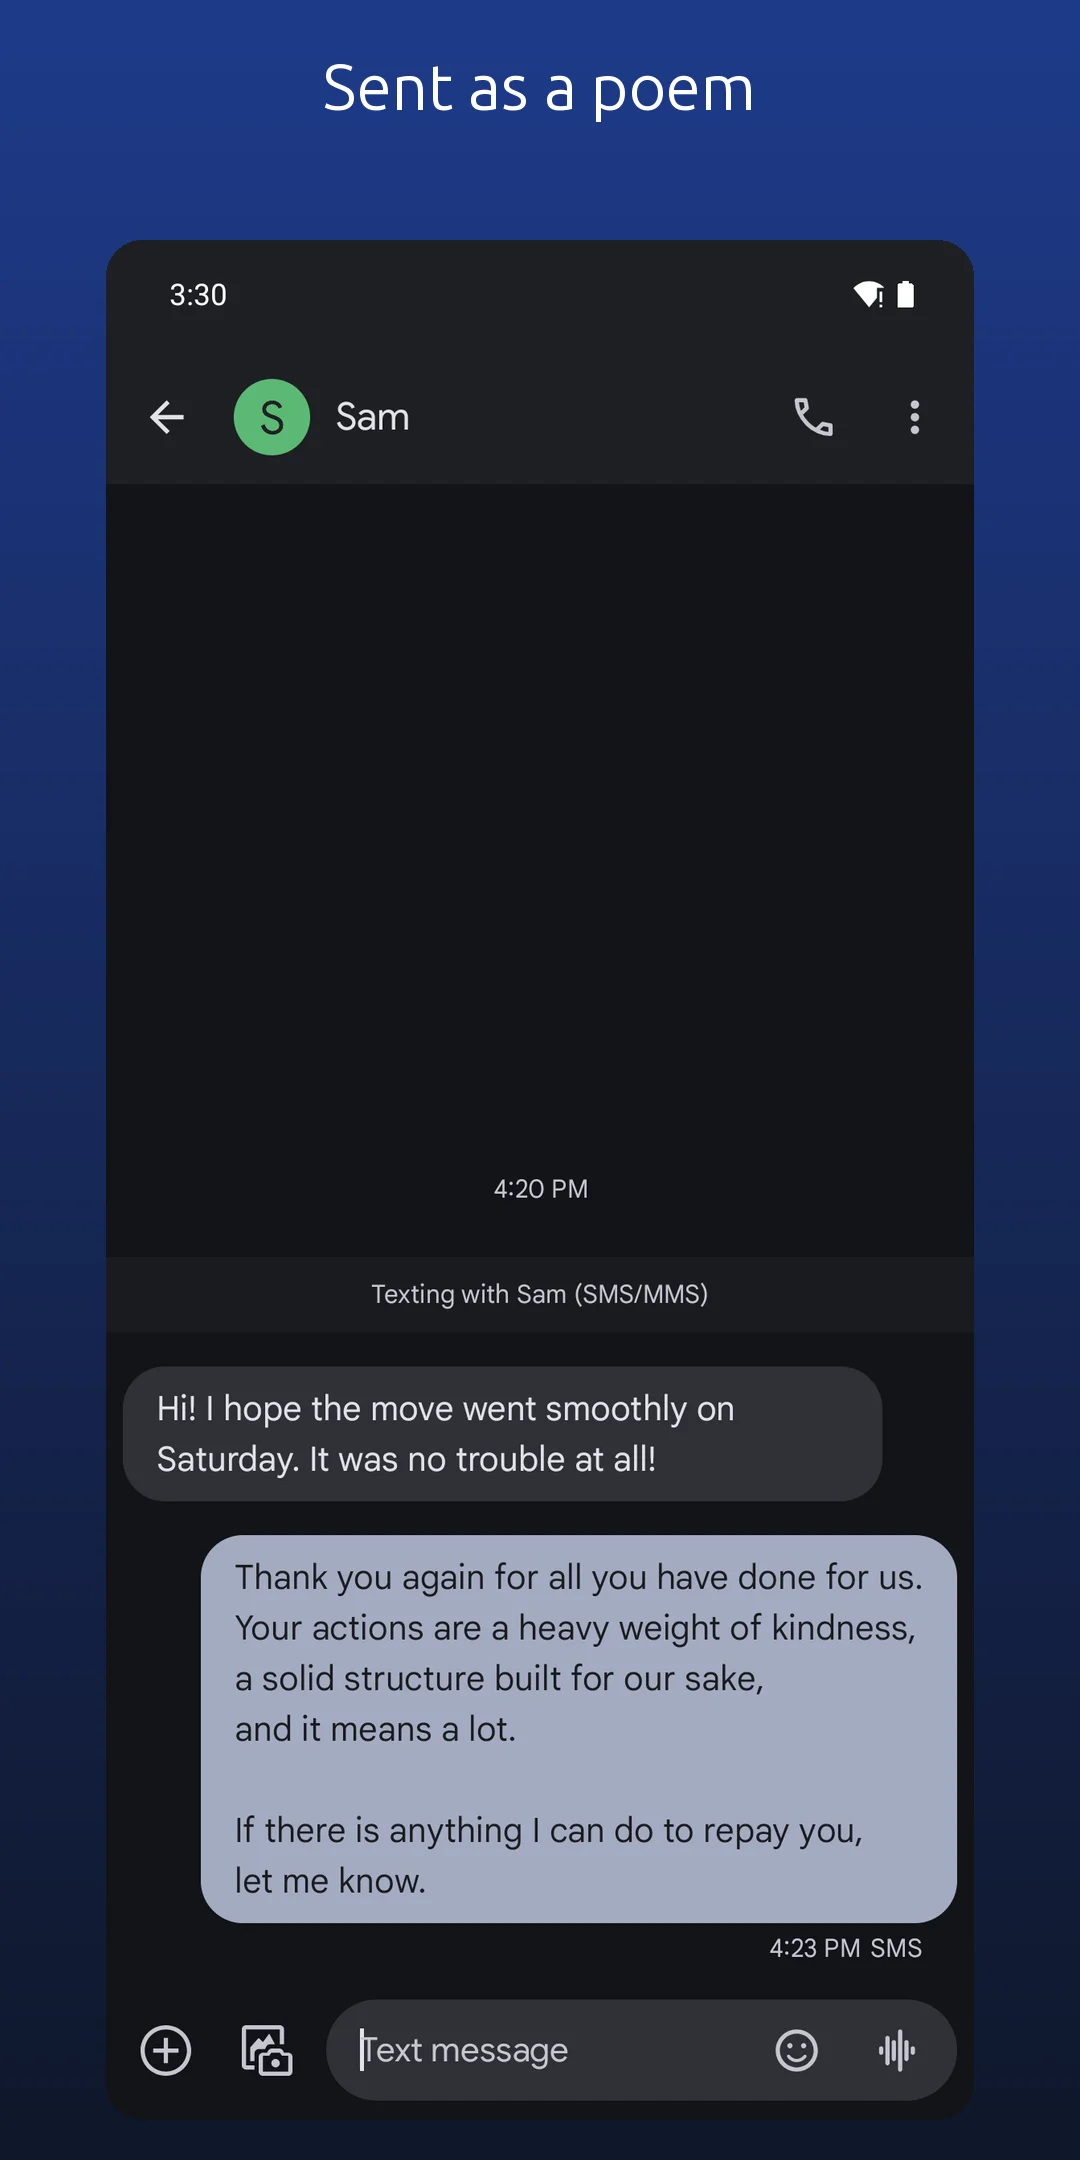
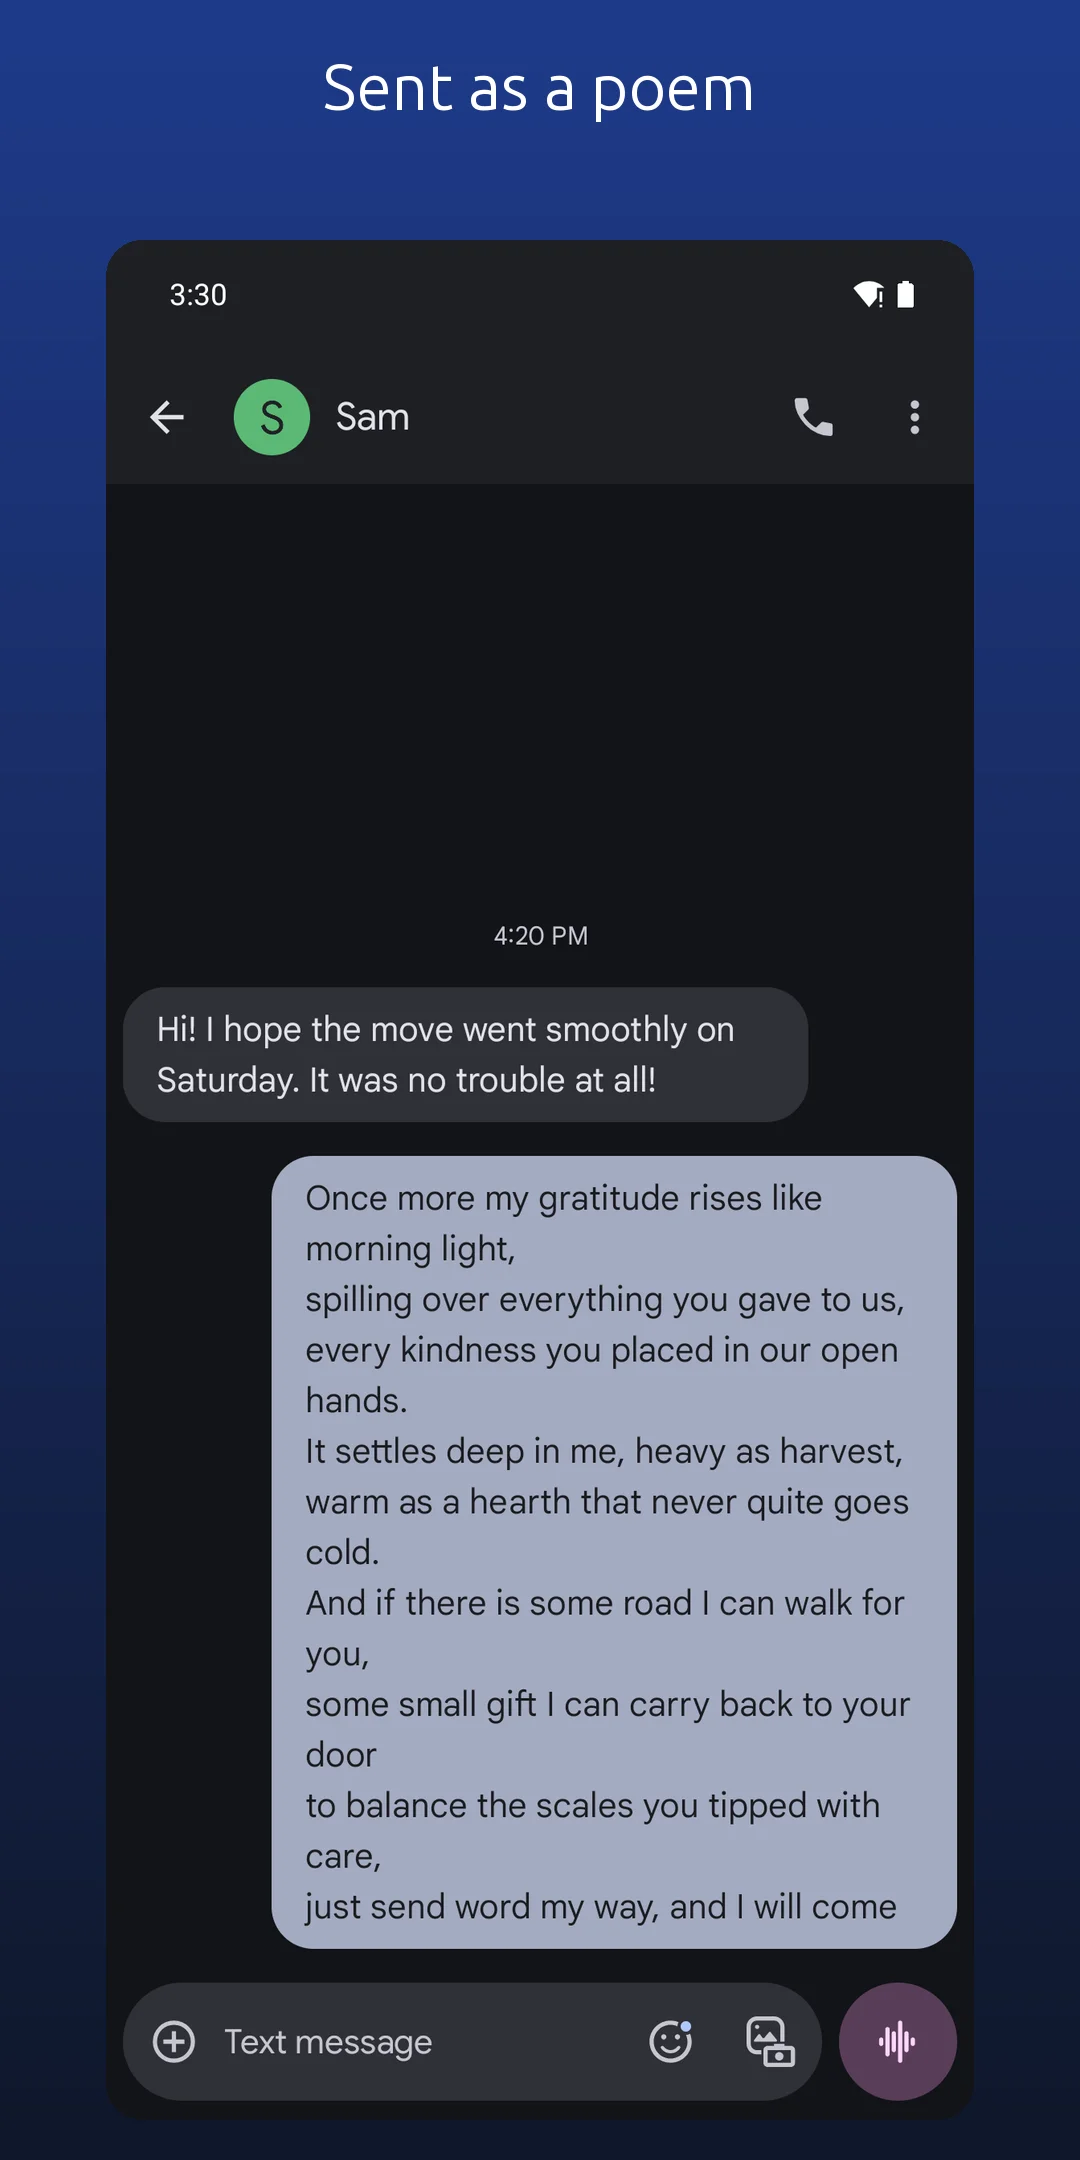
Screenshots: rewrites by Claude

Changed region(s): [[0.0917, 0.4343, 0.8861, 0.9926]]

diff --git a/index.html b/index.html
@@ -85,18 +85,18 @@ and see the rewrite before it goes in.</p>
 
 <h2>See it in action</h2>
 <ul class="gallery">
-  <li><a href="screens/full/01-professional.webp?v=1f1343a1"><img src="screens/01-professional.webp?v=ffd5309b" alt="A messy text about being late to a meeting, rewritten as Professional at the Everyday reading level" width="540" height="1080" loading="lazy"></a></li>
-  <li><a href="screens/full/02-prosent.webp?v=1b4f117e"><img src="screens/02-prosent.webp?v=f5cc8e4d" alt="The professional rewrite after it was sent" width="540" height="1080" loading="lazy"></a></li>
-  <li><a href="screens/full/03-shakespeare.webp?v=8caebf50"><img src="screens/03-shakespeare.webp?v=f0bc8008" alt="A messy text promising a report, rewritten as Shakespeare" width="540" height="1080" loading="lazy"></a></li>
-  <li><a href="screens/full/04-pirate.webp?v=ffc621f4"><img src="screens/04-pirate.webp?v=6dc24448" alt="A messy text about a night out, rewritten as Pirate" width="540" height="1080" loading="lazy"></a></li>
-  <li><a href="screens/full/05-piratesent.webp?v=d2ce5eda"><img src="screens/05-piratesent.webp?v=0e372ef0" alt="The pirate rewrite after it was sent" width="540" height="1080" loading="lazy"></a></li>
+  <li><a href="screens/full/01-professional.webp?v=58625716"><img src="screens/01-professional.webp?v=0b92a280" alt="A messy text about being late to a meeting, rewritten as Professional at the Everyday reading level" width="540" height="1080" loading="lazy"></a></li>
+  <li><a href="screens/full/02-prosent.webp?v=3e2aa11c"><img src="screens/02-prosent.webp?v=46247a7b" alt="The professional rewrite after it was sent" width="540" height="1080" loading="lazy"></a></li>
+  <li><a href="screens/full/03-shakespeare.webp?v=c3dc8aed"><img src="screens/03-shakespeare.webp?v=d269b25c" alt="A messy text promising a report, rewritten as Shakespeare" width="540" height="1080" loading="lazy"></a></li>
+  <li><a href="screens/full/04-pirate.webp?v=8b96d8ae"><img src="screens/04-pirate.webp?v=51d89819" alt="A messy text about a night out, rewritten as Pirate" width="540" height="1080" loading="lazy"></a></li>
+  <li><a href="screens/full/05-piratesent.webp?v=a8d861b9"><img src="screens/05-piratesent.webp?v=5b30b75d" alt="The pirate rewrite after it was sent" width="540" height="1080" loading="lazy"></a></li>
   <li><a href="screens/full/06-poeticbefore.webp?v=bb209436"><img src="screens/06-poeticbefore.webp?v=43fd9505" alt="A thank-you text typed in a chat, before it is made Poetic" width="540" height="1080" loading="lazy"></a></li>
-  <li><a href="screens/full/07-poetic.webp?v=0e7a0eee"><img src="screens/07-poetic.webp?v=5ca6c847" alt="The thank-you text rewritten as a short poem with the same meaning" width="540" height="1080" loading="lazy"></a></li>
-  <li><a href="screens/full/08-poeticsent.webp?v=3166ee10"><img src="screens/08-poeticsent.webp?v=98265f5d" alt="The poem after it was sent" width="540" height="1080" loading="lazy"></a></li>
+  <li><a href="screens/full/07-poetic.webp?v=6e27f45d"><img src="screens/07-poetic.webp?v=1730ac8a" alt="The thank-you text rewritten as a short poem with the same meaning" width="540" height="1080" loading="lazy"></a></li>
+  <li><a href="screens/full/08-poeticsent.webp?v=b625c85d"><img src="screens/08-poeticsent.webp?v=6944a014" alt="The poem after it was sent" width="540" height="1080" loading="lazy"></a></li>
   <li><a href="screens/full/09-prolist.webp?v=092b5dae"><img src="screens/09-prolist.webp?v=8931c19a" alt="The All styles pull-down: free styles first with pins, then the Pro groups" width="540" height="1080" loading="lazy"></a></li>
   <li><a href="screens/full/10-choices.webp?v=77b41b68"><img src="screens/10-choices.webp?v=9c85ac4c" alt="Changing the style in the Reword panel: your pinned styles as buttons and the All styles pull-down" width="540" height="1080" loading="lazy"></a></li>
   <li><a href="screens/full/11-lpbefore.webp?v=55095b50"><img src="screens/11-lpbefore.webp?v=1c5dff4d" alt="Tapping the Reword button on a thank-you text, set to Rhyme at the College reading level" width="540" height="1080" loading="lazy"></a></li>
-  <li><a href="screens/full/12-lpafter.webp?v=17087789"><img src="screens/12-lpafter.webp?v=3ff9f646" alt="The thank-you text reworded in place as a rhyme at the College reading level, with an Undo button" width="540" height="1080" loading="lazy"></a></li>
+  <li><a href="screens/full/12-lpafter.webp?v=14124996"><img src="screens/12-lpafter.webp?v=450d5fba" alt="The thank-you text reworded in place as a rhyme at the College reading level, with an Undo button" width="540" height="1080" loading="lazy"></a></li>
   <li><a href="screens/full/13-setup.webp?v=df0a2d04"><img src="screens/13-setup.webp?v=cfa43182" alt="Setup: choosing the AI that does the rewriting, your own server, a cloud service or the phone" width="540" height="1080" loading="lazy"></a></li>
   <li><a href="screens/full/14-disclosure.webp?v=7fde0411"><img src="screens/14-disclosure.webp?v=45829351" alt="What the Reword button can see" width="540" height="1080" loading="lazy"></a></li>
   <li><a href="screens/full/15-settings.webp?v=59ec2b30"><img src="screens/15-settings.webp?v=0f13725f" alt="Settings: your default style and reading level" width="540" height="1080" loading="lazy"></a></li>
